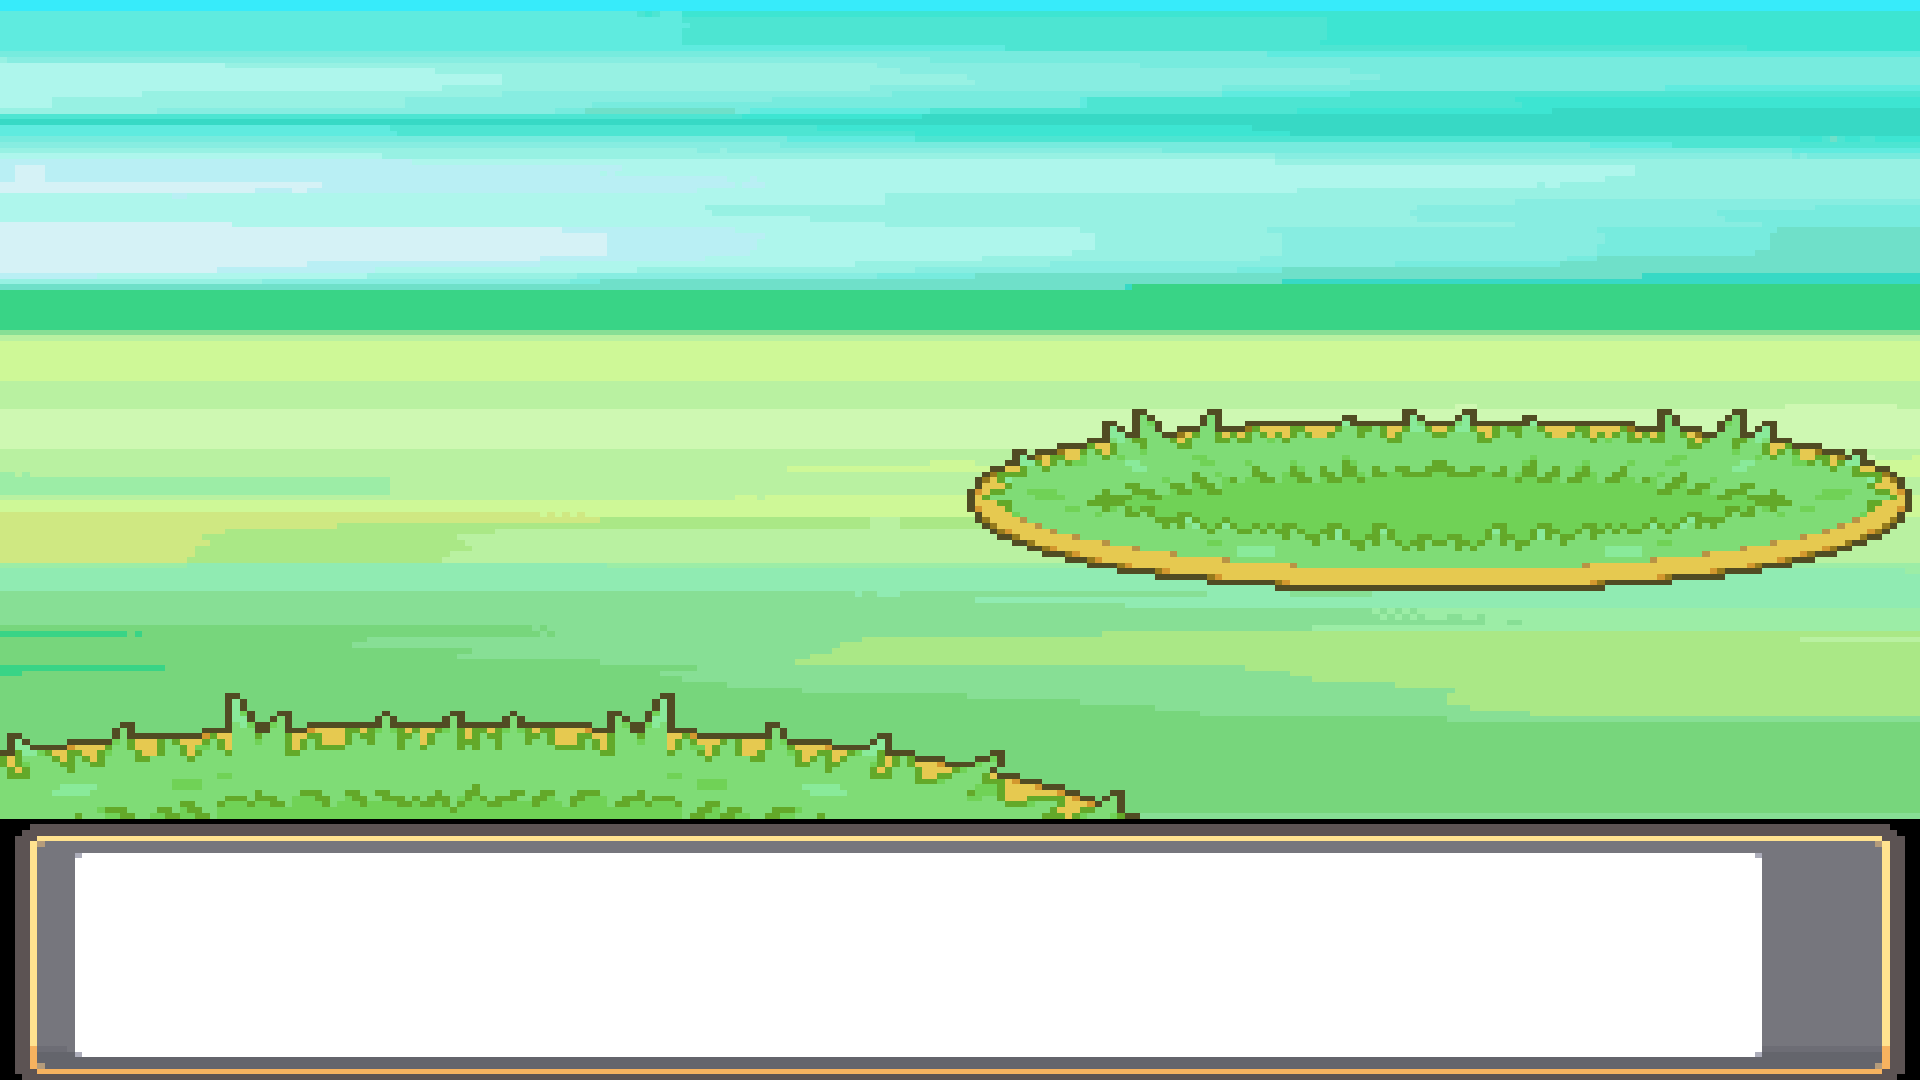
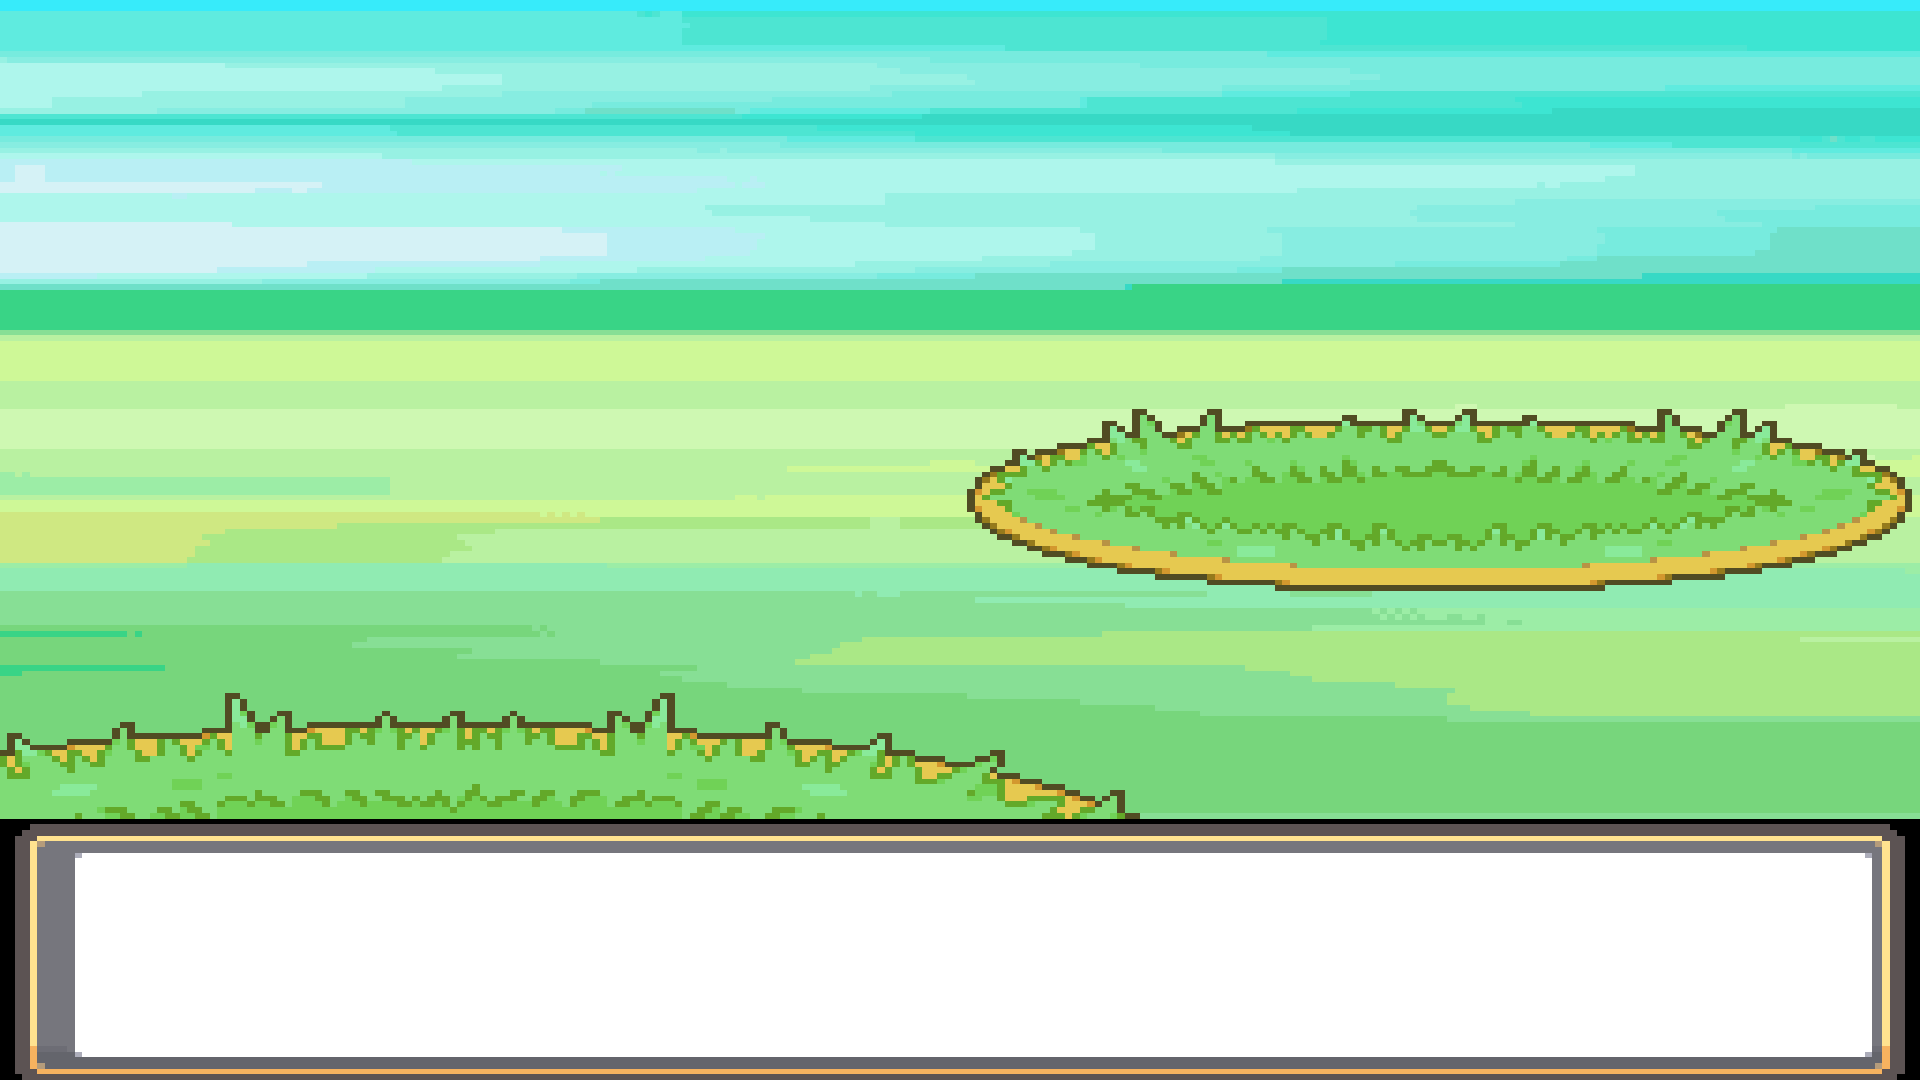
No idea what i just did, its in progress

Changed region(s): [[0.9062, 0.7639, 1.0, 0.9778]]

diff --git a/Combat.py b/Combat.py
@@ -27,9 +27,62 @@ class Combat:
         list(self.battlers.values())[1].ability.activate(list(self.battlers.values())[1], list(self.battlers.values())[0], None, "in")
         self.to_continue = True
         pygame.display.flip()
+        self.screen = screen
         self.turn(party1, party2, 1)
         
     def turn(self, party1, party2, amount):
+        font = pygame.font.SysFont('Power Red and Blue', 70)
+        self.screen.blit(font.render("What will " + party1.mons[0].name + " do?", False, (0, 0, 0)), (100, 860))
+        self.screen.blit(font.render("Fight", False, (255, 0, 0)), (1300, 860))
+        self.screen.blit(font.render("Pokemon", False, (0, 0, 0)), (1300, 960))
+        self.screen.blit(font.render("Bag", False, (0, 0, 0)), (1600, 860))
+        self.screen.blit(font.render("Run", False, (0, 0, 0)), (1600, 960))
+        pygame.display.flip()
+        keys = pygame.key.get_pressed()
+        action = 0
+        while not keys[pygame.K_c]:
+            print(action)
+            pygame.time.wait(20)
+            self.screen.blit(pygame.image.load("imgs/Textbox.png"), (0, 1080-261))
+            self.screen.blit(font.render("What will " + party1.mons[0].name + " do?", False, (0, 0, 0)), (100, 860))
+            if action == 0:
+                self.screen.blit(font.render("Fight", False, (255, 0, 0)), (1300, 860))
+                self.screen.blit(font.render("Pokemon", False, (0, 0, 0)), (1300, 960))
+                self.screen.blit(font.render("Bag", False, (0, 0, 0)), (1600, 860))
+                self.screen.blit(font.render("Run", False, (0, 0, 0)), (1600, 960))
+            elif action == 1:
+                self.screen.blit(font.render("Fight", False, (0, 0, 0)), (1300, 860))
+                self.screen.blit(font.render("Pokemon", False, (255, 0, 0)), (1300, 960))
+                self.screen.blit(font.render("Bag", False, (0, 0, 0)), (1600, 860))
+                self.screen.blit(font.render("Run", False, (0, 0, 0)), (1600, 960))
+            elif action == 2:
+                self.screen.blit(font.render("Fight", False, (0, 0, 0)), (1300, 860))
+                self.screen.blit(font.render("Pokemon", False, (0, 0, 0)), (1300, 960))
+                self.screen.blit(font.render("Bag", False, (255, 0, 0)), (1600, 860))
+                self.screen.blit(font.render("Run", False, (0, 0, 0)), (1600, 960))
+            else:
+                self.screen.blit(font.render("Fight", False, (0, 0, 0)), (1300, 860))
+                self.screen.blit(font.render("Pokemon", False, (0, 0, 0)), (1300, 960))
+                self.screen.blit(font.render("Bag", False, (0, 0, 0)), (1600, 860))
+                self.screen.blit(font.render("Run", False, (255, 0, 0)), (1600, 960))
+            if keys[pygame.K_DOWN] and action == 0:
+                action = 1
+            if keys[pygame.K_UP] and action == 1:
+                action = 0
+            if keys[pygame.K_DOWN] and action == 2:
+                action = 3
+            if keys[pygame.K_UP] and action == 3:
+                action = 2
+            if keys[pygame.K_LEFT] and action == 3:
+                action = 1
+            if keys[pygame.K_RIGHT] and action == 1:
+                action = 3
+            if keys[pygame.K_LEFT] and action == 2:
+                action = 0
+            if keys[pygame.K_RIGHT] and action == 0:
+                action = 2
+            keys = pygame.key.get_pressed()
+
 
         print("Your mon:")
         print(str(party1.mons[0]) + " at " + str(party1.mons[0].temp_stats[0]) + "/" + str(party1.mons[0].stats[0]))
@@ -46,8 +99,6 @@ class Combat:
             party2.mons[0].temp_stats[i] = party2.mons[0].stats[i] * party2.mons[0].boosts[i]
         self.to_attack = True
         self.to_continue = True
-        print("Attack(0), Switch(1), Item(2) (NYI) or Flee(3)?")
-        action = int(input())
         if len(list(filter(None, party2.mons))) > 1:
             if not self.is_trainer:
                 enemy_move = random.choice(self.battlers.get(2).moves + ["switch", "run"])
@@ -90,6 +141,18 @@ class Combat:
                         print("you lost")
                         self.to_continue = False
         elif action == 0:
+            self.screen.blit(pygame.image.load("imgs/Textbox.png"), (0, 1080-261))
+            moves = self.battlers.get(1).moves
+            self.screen.blit(font.render(moves[0].name, False, (255, 0, 0)), (100, 860))
+            self.screen.blit(font.render("PP " + str(moves[0].current_pp) + "/" + str(moves[0].max_pp), False, (0, 0, 0)), (1450, 860))
+            self.screen.blit(pygame.transform.scale2x(moves[0].type.get_sprite()), (1450, 960))
+            if len(moves) > 1:
+                self.screen.blit(font.render(moves[1].name, False, (0, 0, 0)), (600, 860))
+            if len(moves) > 2:
+                self.screen.blit(font.render(moves[2].name, False, (0, 0, 0)), (100, 960))
+            if len(moves) == 4:
+                self.screen.blit(font.render(moves[3].name, False, (0, 0, 0)), (600, 960))
+            pygame.display.flip()
             print("Which move?")
             for i in range(len(self.battlers.get(1).moves)):
                 print(self.battlers.get(1).moves[i].name + "? write " + str(i) + "!")
@@ -205,9 +268,3 @@ class Combat:
         else:
             print("but it missed!")
             return "miss"
-        
-        
-if __name__ == "__main__":
-    p1 = Party(Monster.Fravicode(100))
-    p2 = Party(Monster.Larchanter(100))
-    Combat(p1, p2, "normal", True)

diff --git a/Attack.py b/Attack.py
@@ -54,7 +54,7 @@ def stat_change(mon, stat, change):
 
 
 class Attack:
-    def __init__(self, name, type1, power, accuracy, desc, additions, targets, priority, kind):
+    def __init__(self, name, type1, power, accuracy, desc, additions, targets, priority, kind, max_pp):
         self.name = name
         self.type = type1
         self.power = power
@@ -64,6 +64,8 @@ class Attack:
         self.priority = priority
         self.targets = targets
         self.kind = kind
+        self.max_pp = max_pp
+        self.current_pp = max_pp
 
     def calc_eff(self, defender):
         modifier = 1
@@ -83,6 +85,7 @@ class Attack:
         return modifier
 
     def use(self, user, target,  weather):
+        self.current_pp -= 1
         if random.randint(1, 100) <= self.accuracy:
             return self.dmg_calc(user, target, weather)
         else:
@@ -129,10 +132,11 @@ class Attack:
 
 
 class StatusAttack(Attack):
-    def __init__(self, name, type1, accuracy, desc, additions, targets, priority):
-        Attack.__init__(self, name, type1, 0, accuracy, desc, additions, targets, priority, "status")
+    def __init__(self, name, type1, accuracy, desc, additions, targets, priority, max_pp):
+        Attack.__init__(self, name, type1, 0, accuracy, desc, additions, targets, priority, "status", max_pp)
 
     def use(self, user, target,  weather):
+        self.current_pp -= 1
         if target == 0 or random.randint(1, 100) <= 100:
             self.additions(0, user, target, weather)
         else:
@@ -143,7 +147,7 @@ def patch(damage, user, target, weather):
     stat_change(user, 4, 1)
 
 
-pounce = Attack("Pounce", Type.basic, 40, 100, "The user pounces on the enemy", None, 1, 0, "physical")
-patch = StatusAttack("Patch", Type.cyber, 100, "The user downloads a patch, which lowers incoming damage.", patch, 0, 0)
-pixelate = Attack("Pixelate", Type.cyber, 45, 100, "The user makes the opponent lose their 3rd dimension.", None, 1, 0, "special")
-slap = Attack("Slap", Type.basic, 40, 100, "The user slaps the enemy", None, 1, 0, "physical")
+pounce = Attack("Pounce", Type.basic, 40, 100, "The user pounces on the enemy", None, 1, 0, "physical", 35)
+patch = StatusAttack("Patch", Type.cyber, 100, "The user downloads a patch, which lowers incoming damage.", patch, 0, 0, 40)
+pixelate = Attack("Pixelate", Type.cyber, 45, 100, "The user makes the opponent lose their 3rd dimension.", None, 1, 0, "special", 25)
+slap = Attack("Slap", Type.basic, 40, 100, "The user slaps the enemy", None, 1, 0, "physical", 35)

diff --git a/Main.py b/Main.py
@@ -25,7 +25,7 @@ def main():
         for event in pygame.event.get():
             if event.type == pygame.QUIT:
                 done = True
-        if keys[pygame.K_c]:
+        if keys[pygame.K_RETURN]:
             p1 = Party(Monster.Larchanter(100))
             p2 = Party(Monster.Larchanter(100))
             Combat(p1, p2, "normal", True, screen)
